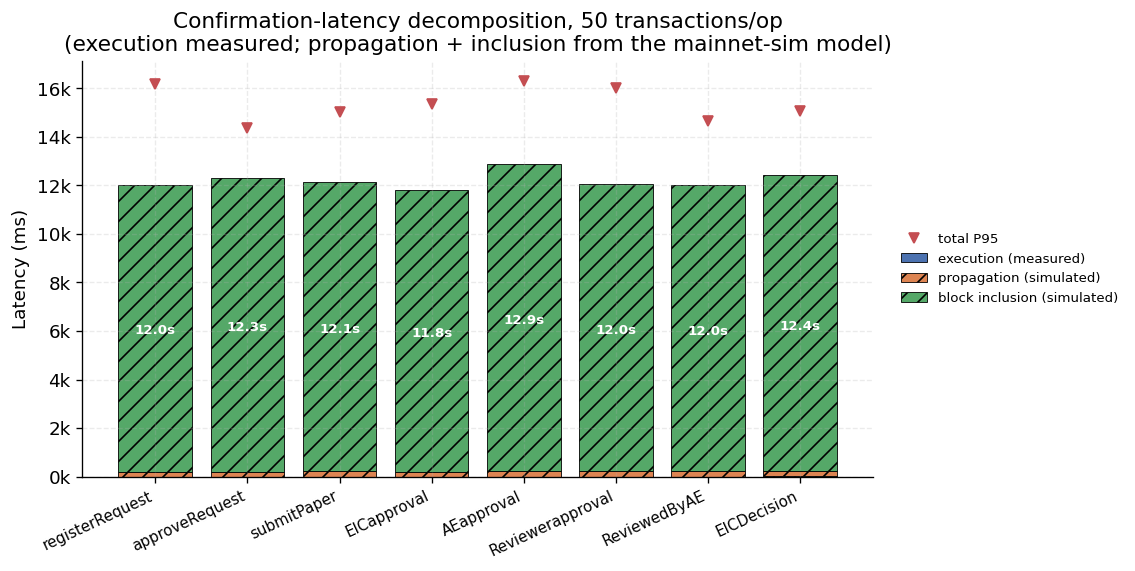
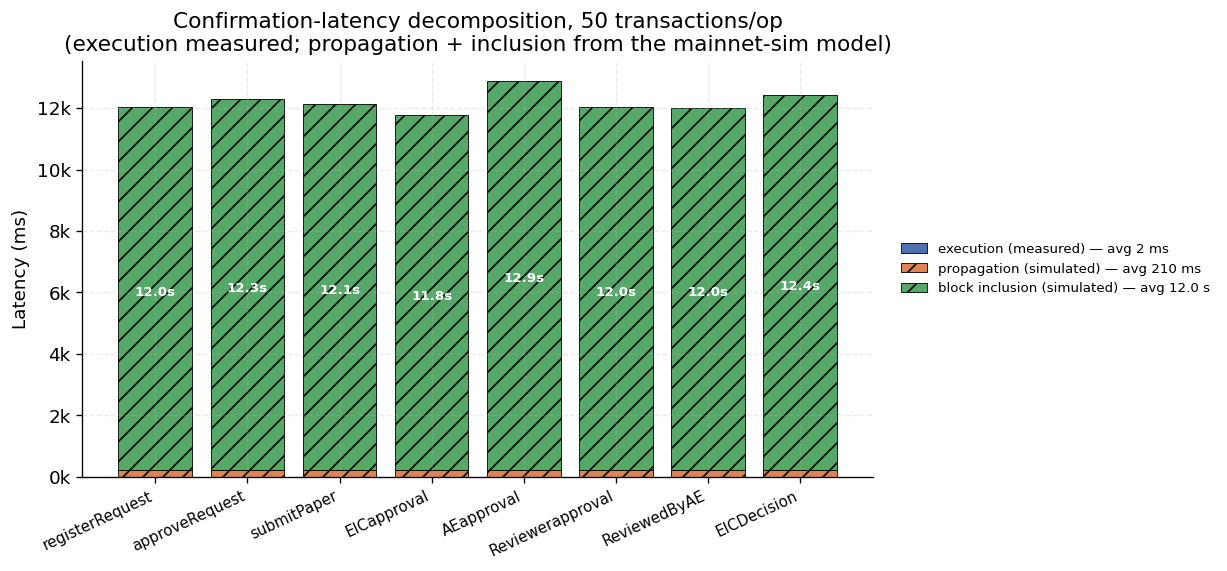
fix(figures): clarify storage semantics; simplify latency figure
- Storage figure + section: per-paper footprint is constant by design
  (metadata + IPFS link on-chain, manuscript off-chain); annotated the
  flat line and explained the N=1 amortization artifact.
- Latency figure: bars only (P95 marker removed from the figure; the CSV
  and table keep P95), component averages shown in the legend.

diff --git a/scripts/benchmark/storage-growth.js b/scripts/benchmark/storage-growth.js
@@ -281,6 +281,14 @@ function renderSection(data) {
     "network-independent (local-only run, same rationale as Section 5).\n"
   );
   lines.push(
+    "**What is stored per paper is constant**: metadata strings plus the " +
+    "IPFS link — the manuscript itself lives off-chain (Pinata/IPFS), so " +
+    "the on-chain footprint does not depend on the PDF's size. Total " +
+    "storage therefore grows linearly while bytes/paper is flat; the " +
+    "slightly higher N=1 value is the one-time overhead (staging structs, " +
+    "array length slots) amortizing over more papers.\n"
+  );
+  lines.push(
     "The pipeline archives a copy of the paper at every approval stage " +
     "(`approvedByEIC`, `approvedByAE`, `reviewedByReviewer`, `reviewedByAE`) " +
     "plus two copies in Decision (`Publishpaper`, `ReturnAuthor`) — the " +

diff --git a/scripts/plot.py b/scripts/plot.py
@@ -104,6 +104,14 @@ def plot_storage_growth():
     ax2.set_ylim(0, max(per_paper_kb) * 1.4)
     ax2.grid(False)
     ax2.spines["top"].set_visible(False)
+    # The per-paper line is constant by design: on-chain state holds only
+    # metadata + the IPFS link (manuscript off-chain). The small early
+    # decline is fixed deployment overhead amortizing over more papers.
+    ax2.annotate(
+        f"constant ≈{per_paper_kb[-1]:.1f} KiB/paper\n(metadata + IPFS link; manuscript off-chain)",
+        xy=(N[-1], per_paper_kb[-1]), xytext=(0.45, 0.32),
+        textcoords="axes fraction", fontsize=9, color="#3A7A4E",
+        arrowprops=dict(arrowstyle="->", color="#55A868", lw=0.8))
 
     ax1.set_title("On-chain storage growth (slot-accounted, trace-validated)")
     _save(fig, "storage_growth")
@@ -111,9 +119,10 @@ def plot_storage_growth():
 
 def plot_latency_decomposition():
     """Stacked bars: per-operation latency split into measured execution +
-    simulated propagation + simulated block inclusion (50 samples), with the
-    total's P95 marked. Simulated components are hatched and the title
-    carries the mainnet-sim label so the figure is honest standalone."""
+    simulated propagation + simulated block inclusion (50 samples). The
+    legend carries each component's average so the composition is readable
+    at a glance; simulated components are hatched and the title carries the
+    mainnet-sim label so the figure is honest standalone."""
     path = DATA_DIR / "latency.csv"
     if not path.exists():
         print(f"  (skip latency-decomposition: {path.name} not found)")
@@ -127,25 +136,25 @@ def plot_latency_decomposition():
             for op in ops]
         for c in ("execution", "propagation", "blockInclusion", "total")
     }
-    tot_rows = {op: next(r for r in rows
-                         if r["operation"] == op and r["component"] == "total")
-                for op in ops}
+    def avg(component):
+        vals = comp[component]
+        return sum(vals) / len(vals)
+
+    def fmt_ms(ms):
+        return f"{ms/1000:,.1f} s" if ms >= 1000 else f"{ms:,.0f} ms"
 
     fig, ax = plt.subplots(figsize=(8.5, 4.5))
     x = range(len(ops))
-    b1 = ax.bar(x, comp["execution"], color="#4C72B0",
-                edgecolor="black", linewidth=0.5, label="execution (measured)")
-    b2 = ax.bar(x, comp["propagation"], bottom=comp["execution"],
-                color="#DD8452", edgecolor="black", linewidth=0.5,
-                hatch="//", label="propagation (simulated)")
+    ax.bar(x, comp["execution"], color="#4C72B0",
+           edgecolor="black", linewidth=0.5,
+           label=f"execution (measured) — avg {fmt_ms(avg('execution'))}")
+    ax.bar(x, comp["propagation"], bottom=comp["execution"],
+           color="#DD8452", edgecolor="black", linewidth=0.5, hatch="//",
+           label=f"propagation (simulated) — avg {fmt_ms(avg('propagation'))}")
     bottom2 = [a + b for a, b in zip(comp["execution"], comp["propagation"])]
     ax.bar(x, comp["blockInclusion"], bottom=bottom2, color="#55A868",
            edgecolor="black", linewidth=0.5, hatch="//",
-           label="block inclusion (simulated)")
-    # P95 marker on the composite total.
-    p95 = [int(tot_rows[op]["p95Ms"]) for op in ops]
-    ax.plot(x, p95, "v", color="#C44E52", markersize=6, linestyle="none",
-            label="total P95")
+           label=f"block inclusion (simulated) — avg {fmt_ms(avg('blockInclusion'))}")
     for i, op in enumerate(ops):
         ax.text(i, comp["total"][i] * 0.5,
                 f"{comp['total'][i]/1000:.1f}s", ha="center", va="center",

diff --git a/benchmarks/sections/02-latency.md b/benchmarks/sections/02-latency.md
@@ -10,38 +10,38 @@ Per-operation confirmation latency over 50 transactions, decomposed into **measu
 
 | Operation | Component | Source | Mean (ms) | P95 (ms) | Min (ms) | Max (ms) |
 |---|---|---|---:|---:|---:|---:|
-| **registerRequest** | execution | measured | 3 | 6 | 2 | 7 |
+| **registerRequest** | execution | measured | 2 | 4 | 1 | 6 |
 |  | propagation | mainnet-sim | 200 | 327 | 99 | 401 |
 |  | blockInclusion | mainnet-sim | 11,825 | 15,990 | 8,090 | 16,247 |
-|  | total | composite | 12,028 | 16,158 | 8,254 | 16,429 |
-| **approveRequest** | execution | measured | 4 | 7 | 2 | 13 |
+|  | total | composite | 12,027 | 16,157 | 8,250 | 16,427 |
+| **approveRequest** | execution | measured | 2 | 3 | 1 | 3 |
 |  | propagation | mainnet-sim | 201 | 385 | 64 | 398 |
 |  | blockInclusion | mainnet-sim | 12,089 | 14,226 | 6,872 | 15,910 |
-|  | total | composite | 12,294 | 14,354 | 7,142 | 16,112 |
-| **submitPaper** | execution | measured | 5 | 6 | 3 | 17 |
+|  | total | composite | 12,292 | 14,353 | 7,143 | 16,111 |
+| **submitPaper** | execution | measured | 3 | 5 | 2 | 7 |
 |  | propagation | mainnet-sim | 210 | 332 | 114 | 422 |
 |  | blockInclusion | mainnet-sim | 11,923 | 14,819 | 8,771 | 16,546 |
-|  | total | composite | 12,138 | 15,025 | 9,061 | 16,797 |
-| **EICapproval** | execution | measured | 3 | 6 | 2 | 8 |
+|  | total | composite | 12,137 | 15,024 | 9,060 | 16,795 |
+| **EICapproval** | execution | measured | 2 | 4 | 1 | 4 |
 |  | propagation | mainnet-sim | 205 | 309 | 116 | 318 |
 |  | blockInclusion | mainnet-sim | 11,580 | 15,116 | 7,393 | 15,713 |
-|  | total | composite | 11,788 | 15,332 | 7,594 | 15,934 |
-| **AEapproval** | execution | measured | 3 | 7 | 2 | 7 |
+|  | total | composite | 11,787 | 15,329 | 7,594 | 15,933 |
+| **AEapproval** | execution | measured | 2 | 3 | 1 | 4 |
 |  | propagation | mainnet-sim | 216 | 358 | 98 | 385 |
 |  | blockInclusion | mainnet-sim | 12,677 | 16,164 | 9,621 | 17,413 |
-|  | total | composite | 12,896 | 16,311 | 9,803 | 17,624 |
-| **Reviewerapproval** | execution | measured | 4 | 8 | 2 | 16 |
+|  | total | composite | 12,895 | 16,307 | 9,802 | 17,623 |
+| **Reviewerapproval** | execution | measured | 3 | 4 | 1 | 7 |
 |  | propagation | mainnet-sim | 218 | 307 | 70 | 437 |
 |  | blockInclusion | mainnet-sim | 11,819 | 15,735 | 7,646 | 16,080 |
-|  | total | composite | 12,040 | 15,992 | 7,809 | 16,324 |
-| **ReviewedByAE** | execution | measured | 3 | 4 | 2 | 7 |
+|  | total | composite | 12,039 | 15,988 | 7,809 | 16,324 |
+| **ReviewedByAE** | execution | measured | 2 | 2 | 1 | 3 |
 |  | propagation | mainnet-sim | 215 | 369 | 75 | 379 |
 |  | blockInclusion | mainnet-sim | 11,786 | 14,350 | 7,024 | 16,485 |
-|  | total | composite | 12,004 | 14,629 | 7,202 | 16,679 |
-| **EICDecision** | execution | measured | 8 | 11 | 4 | 16 |
+|  | total | composite | 12,003 | 14,628 | 7,202 | 16,679 |
+| **EICDecision** | execution | measured | 4 | 6 | 2 | 7 |
 |  | propagation | mainnet-sim | 212 | 334 | 96 | 379 |
 |  | blockInclusion | mainnet-sim | 12,214 | 14,841 | 8,850 | 15,205 |
-|  | total | composite | 12,434 | 15,070 | 9,124 | 15,368 |
+|  | total | composite | 12,431 | 15,063 | 9,122 | 15,369 |
 
 ![Latency decomposition](./figures/latency_decomposition.png)
 Raw data: [latency.csv](./latency.csv)

diff --git a/benchmarks/sections/04-scalability.md b/benchmarks/sections/04-scalability.md
@@ -6,10 +6,10 @@ Full Auth->Main->Decision pipeline run for N papers.
 
 | N | Total gas | Mean gas / paper | Wall-clock (ms) | Mean ms / paper |
 |---:|---:|---:|---:|---:|
-| 1 | 4,957,138 | 4,957,138 | 23 | 23 |
-| 10 | 48,310,651 | 4,831,065 | 316 | 32 |
-| 50 | 241,002,371 | 4,820,047 | 4,251 | 85 |
-| 100 | 481,860,021 | 4,818,600 | 2,229 | 22 |
-| 500 | 2,408,765,221 | 4,817,530 | 11,669 | 23 |
+| 1 | 4,957,138 | 4,957,138 | 20 | 20 |
+| 10 | 48,310,651 | 4,831,065 | 214 | 21 |
+| 50 | 241,002,371 | 4,820,047 | 1,085 | 22 |
+| 100 | 481,860,021 | 4,818,600 | 2,033 | 20 |
+| 500 | 2,408,765,221 | 4,817,530 | 11,263 | 23 |
 
 Raw data: [scalability.csv](./scalability.csv)

diff --git a/benchmarks/sections/07-storage-growth.md b/benchmarks/sections/07-storage-growth.md
@@ -4,6 +4,8 @@ N papers are pushed end-to-end, then the storage the contracts occupy is account
 
 > **Cross-checked against the EVM.** For one full lifecycle, a `debug_traceTransaction` count of net SSTOREs (slots left non-zero) gives **123 slots** vs. **123** from the analytical accounting — an exact match. Storage layout is EVM-deterministic, so these figures are network-independent (local-only run, same rationale as Section 5).
 
+**What is stored per paper is constant**: metadata strings plus the IPFS link — the manuscript itself lives off-chain (Pinata/IPFS), so the on-chain footprint does not depend on the PDF's size. Total storage therefore grows linearly while bytes/paper is flat; the slightly higher N=1 value is the one-time overhead (staging structs, array length slots) amortizing over more papers.
+
 The pipeline archives a copy of the paper at every approval stage (`approvedByEIC`, `approvedByAE`, `reviewedByReviewer`, `reviewedByAE`) plus two copies in Decision (`Publishpaper`, `ReturnAuthor`) — the `copies/paper` column quantifies this write amplification.
 
 | N | Total slots | Total bytes | Bytes/paper | Copies/paper | Auth bytes (fixed roles) |